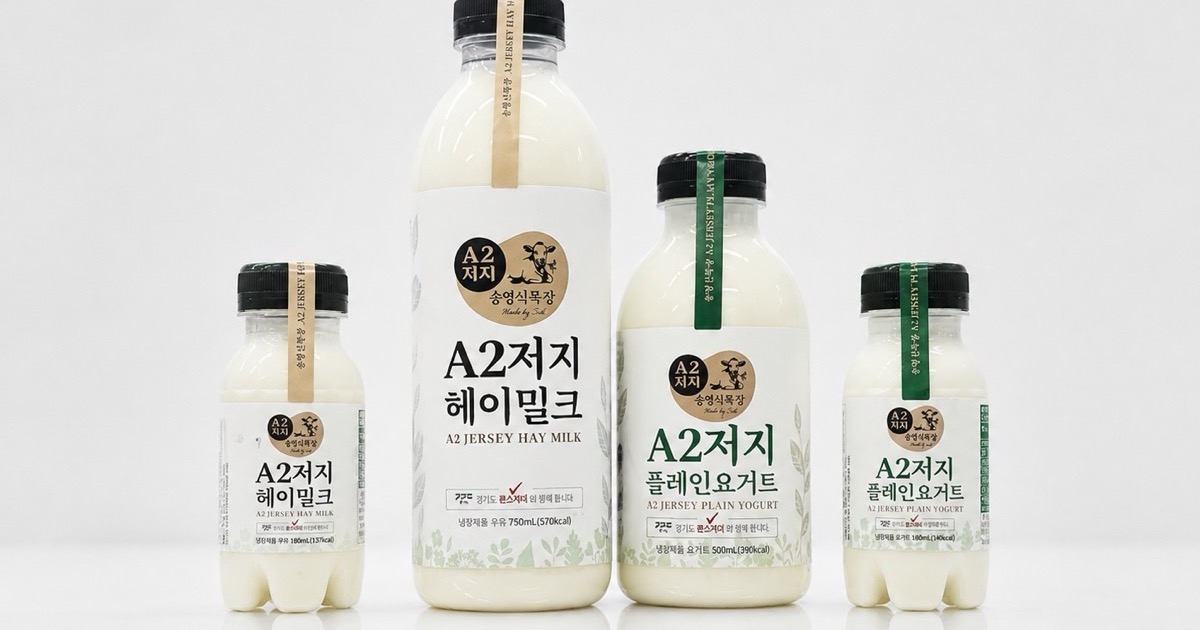
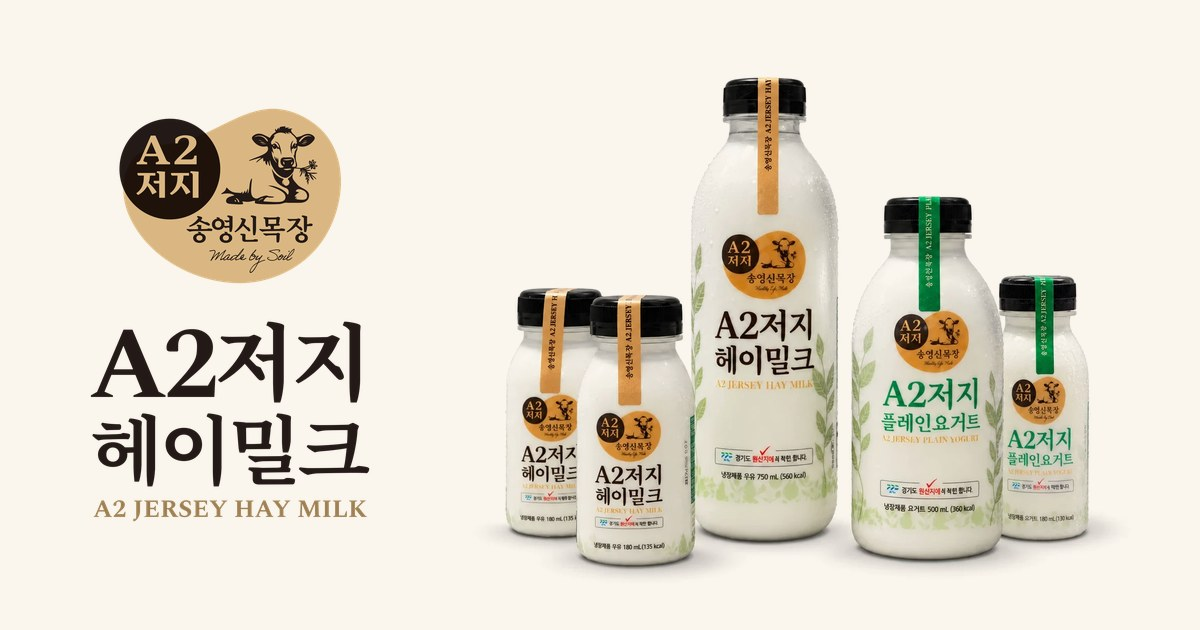
feat(브랜드): 남은 옛 로고를 라벨 로고로 교체 + 공유 이미지 재제작 · 24주 DB 적용 기록
- 구독 안내(SubscriptionBand)·목장 사진(FarmBand)의 HEY MILK 마크를 라벨 로고로 교체.
  이제 화면에 옛 로고가 남아 있지 않다.
- 공유 이미지(og-default.jpg)를 다시 만들었다. 기존 이미지는 병 라벨의 목장 이름이
  '송영식목장'으로 잘못 찍혀 있었고(신 → 식), 표기 열량도 실제 라벨(560·360·135kcal)과
  달랐다(570·390·137). 실제 제품 정렬컷 + 로고 원본으로 대체한다.
- supabase/migration-period-24weeks.sql: 2026-11-11 운영 DB 적용 완료 기록.
  적용 후 period_discount(1,2,3,4,5,6) = 0.10 / 0.12 / 0.15 / null / null / 0.20.

Claude-Session: https://claude.ai/code/session_01F2bgBRLP3fGPL1K8iLi7ip

diff --git a/components/SubscriptionBand.tsx b/components/SubscriptionBand.tsx
@@ -32,11 +32,11 @@ export function SubscriptionBand() {
       <div className="pointer-events-none absolute -right-24 -top-24 h-96 w-96 rounded-full bg-gold/20 blur-3xl" />
       <div className="pointer-events-none absolute -bottom-32 -left-20 h-96 w-96 rounded-full bg-gold/10 blur-3xl" />
       <Image
-        src="/brand/haymil_log.png"
+        src="/brand/logo-label.png"
         alt=""
         aria-hidden
-        width={800}
-        height={800}
+        width={1000}
+        height={793}
         className="pointer-events-none absolute -bottom-10 -right-8 w-56 opacity-[0.22] sm:-bottom-14 sm:-right-10 sm:w-80"
       />
 

diff --git a/components/FarmBand.tsx b/components/FarmBand.tsx
@@ -24,11 +24,11 @@ export function FarmBand() {
 
           {/* 브랜드 로고 */}
           <Image
-            src="/brand/haymil_log.png"
+            src="/brand/logo-label.png"
             alt=""
             aria-hidden
-            width={800}
-            height={800}
+            width={1000}
+            height={793}
             className="pointer-events-none absolute right-4 top-5 z-10 w-14 drop-shadow-[0_6px_16px_rgba(0,0,0,0.35)] sm:right-6 sm:top-6 sm:w-16"
           />
 
